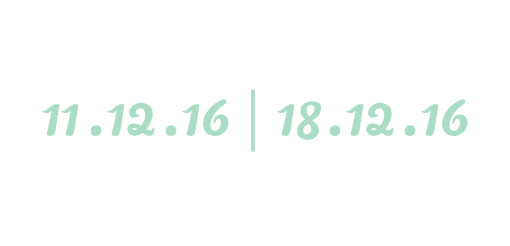
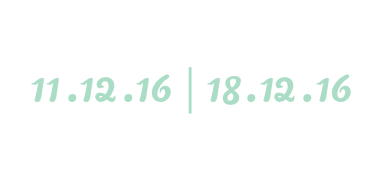
Adding images on the website

diff --git a/css/mobile/home.css b/css/mobile/home.css
@@ -8,7 +8,16 @@
 
 .home-img {
 	width: 100%;
-	height: 185px;
+	height: 120px;
 	background: url(../../images/mm-title.png) no-repeat center center;
 	background-size: 35vh;
+}
+
+.main-img {
+	margin-top: -45px;
+	width: 165px;
+}
+
+.content-box-main {
+	top: 23%;
 }

diff --git a/css/desktop/home.css b/css/desktop/home.css
@@ -16,7 +16,12 @@
 	margin: auto;
 	position: relative;
 	text-indent: -9999px;
-	width: 540px;
-	height: 335px;
+	width: 385px;
+	height: 190px;
 	background: url(../../images/mm-title.png) no-repeat;
+}
+
+.main-img {
+	margin-left: 320px;
+	margin-top: -65px;
 }

diff --git a/index.html b/index.html
@@ -54,8 +54,9 @@
 
   <!-- Main Section -->
   <div class="home slide">
-    <div class="content-box">
+    <div class="content-box content-box-main">
       <div class="home-img"></div>
+      <img src="images/mm.png" class="main-img" />
     </div>
   </div>
 
